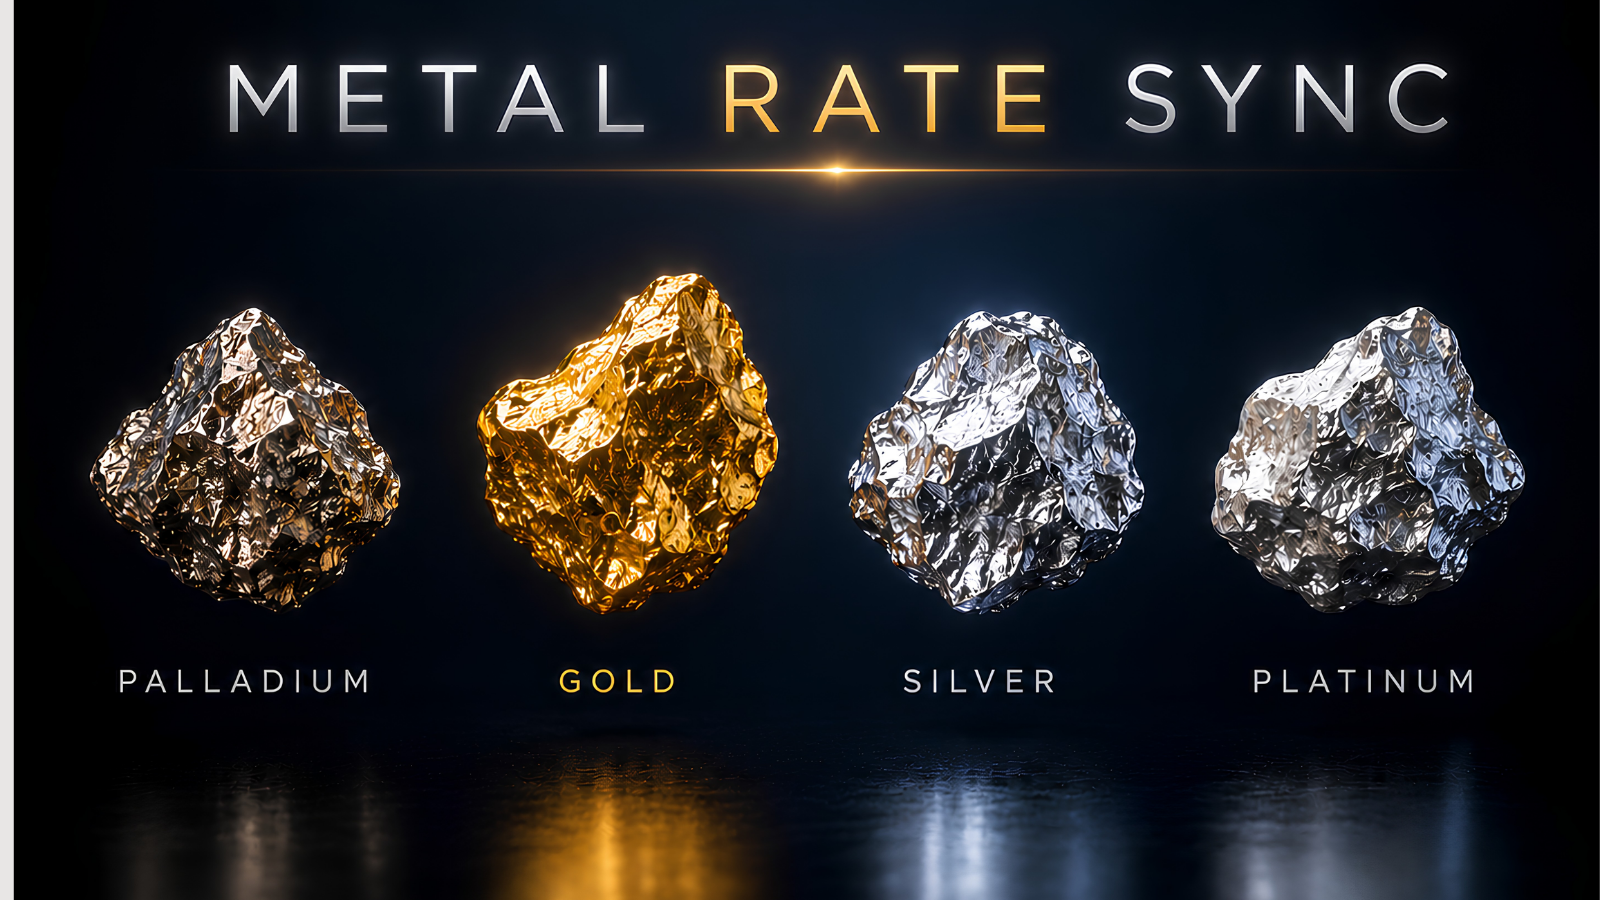
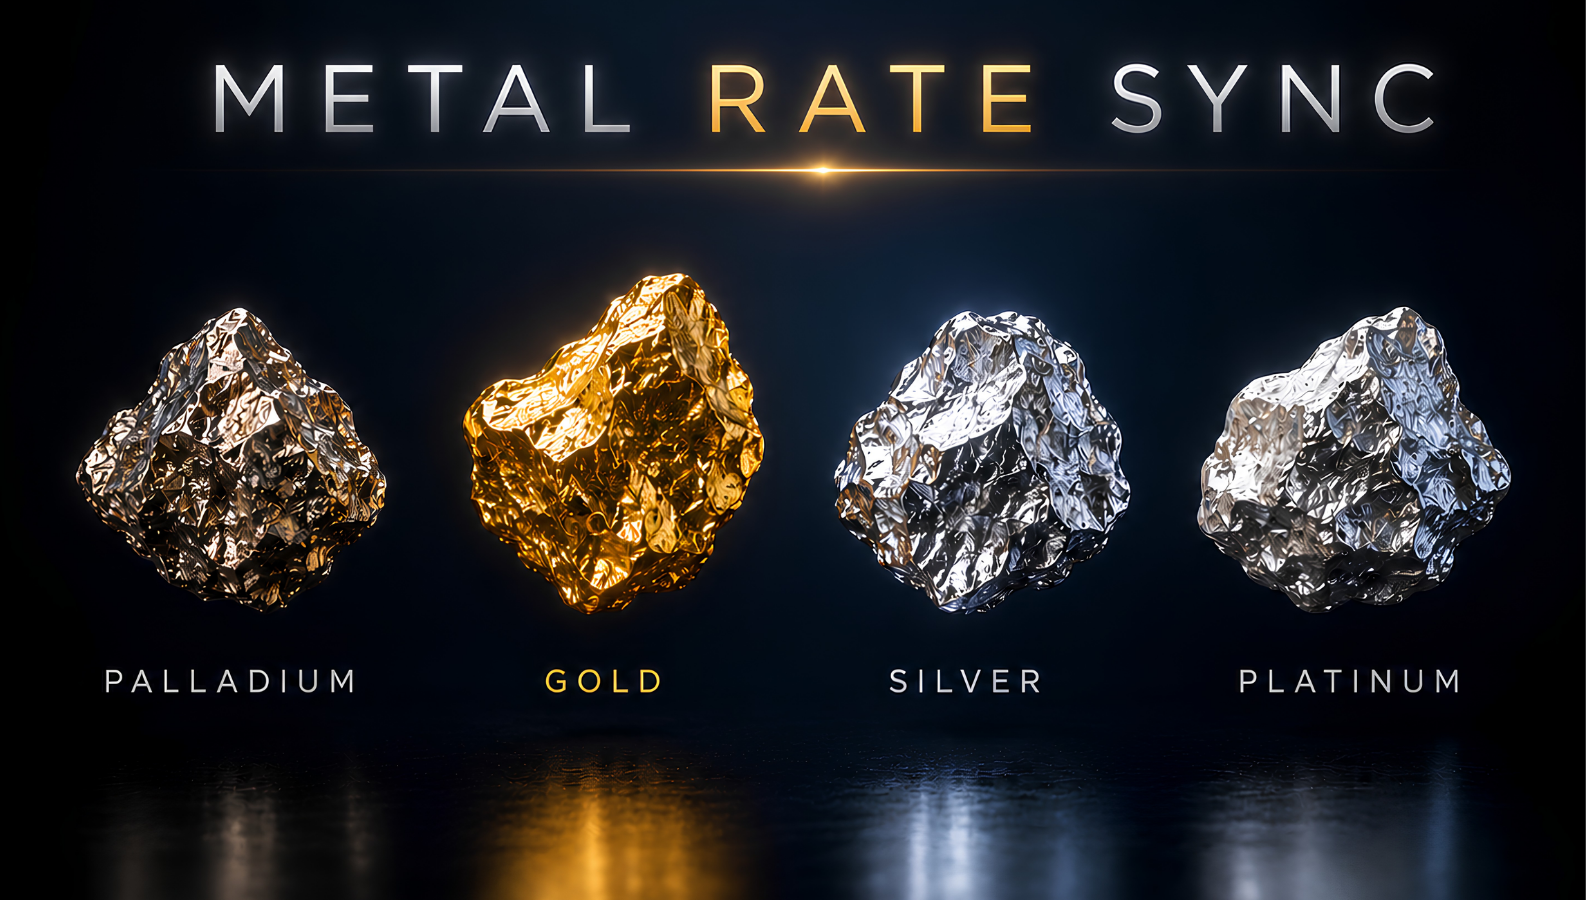
Update hero feature image with edited version
New render is 1586x900 (was 1600x900) -- updated the Image component
and OG metadata dimensions to match so nothing distorts or trips a
layout-shift mismatch.

diff --git a/website/app/layout.tsx b/website/app/layout.tsx
@@ -49,7 +49,7 @@ export const metadata: Metadata = {
     title: "MetalRate Sync — Live gold & silver price sync for Shopify",
     description:
       "Reprice your whole catalog from live metal rates. Preview every change before it happens. Built for bullion dealers and by-weight jewelers.",
-    images: [{ url: "/images/hero-feature.png", width: 1600, height: 900 }],
+    images: [{ url: "/images/hero-feature.png", width: 1586, height: 900 }],
   },
   twitter: {
     card: "summary_large_image",

diff --git a/website/app/page.tsx b/website/app/page.tsx
@@ -192,7 +192,7 @@ export default function Home() {
               <Image
                 src="/images/hero-feature.png"
                 alt="Gold, silver, platinum and palladium on dark pedestals with price direction markers"
-                width={1600}
+                width={1586}
                 height={900}
                 sizes="(max-width: 1200px) 100vw, 1040px"
                 priority
